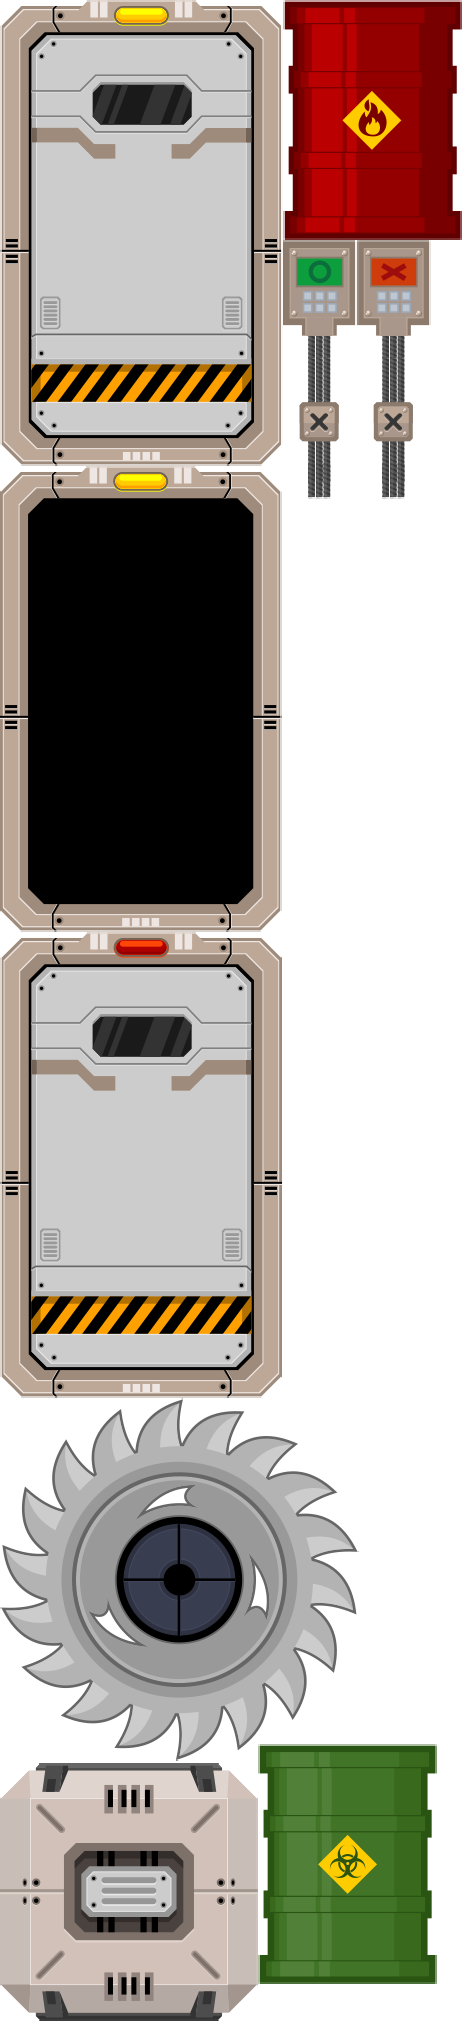
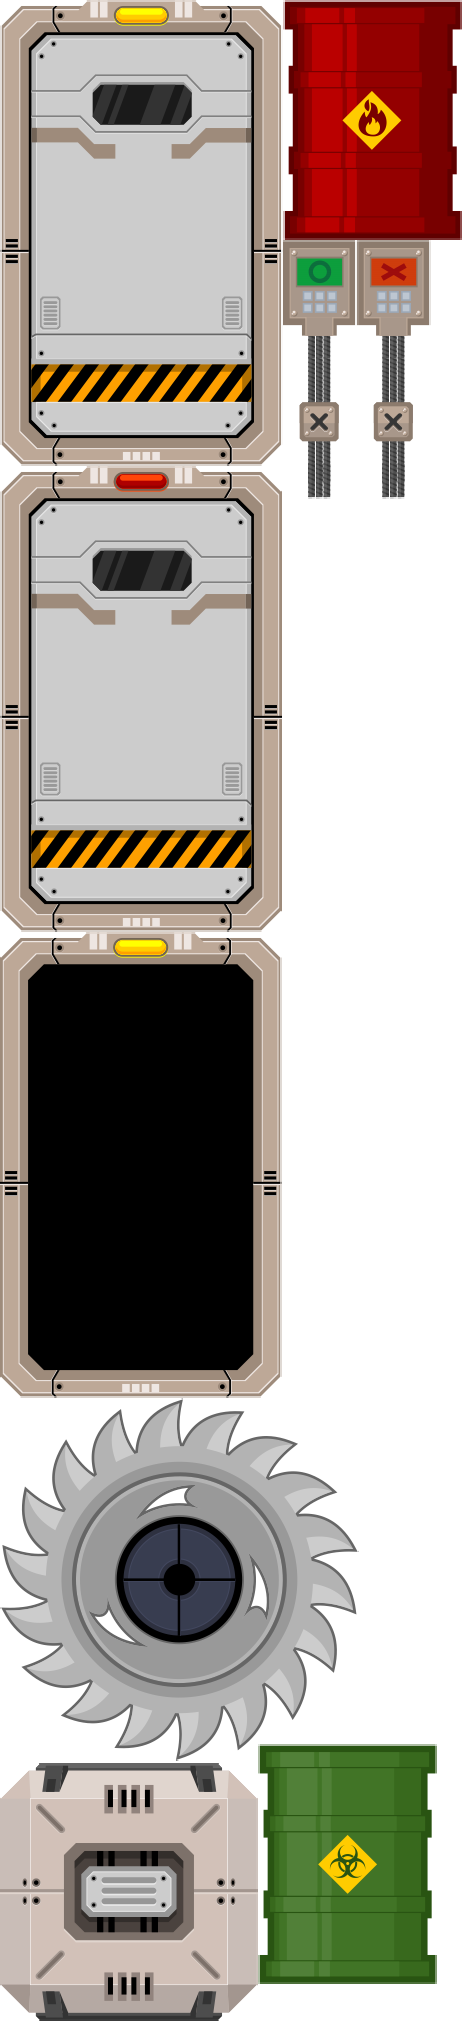
better switches and door, closes #56

Changed region(s): [[0.0, 0.2182, 0.6364, 0.6858]]

diff --git a/Classes/game/on_off_object.cpp b/Classes/game/on_off_object.cpp
@@ -20,53 +20,46 @@
  THE SOFTWARE.
  ****************************************************************************/
 
-#include "door_object.h"
-#include "../utils/audio/audio_helper.h"
+#include "on_off_object.h"
 
-door_object::door_object() :
-  open_(false),
-  audio_helper_(nullptr)
+on_off_object::on_off_object():
+  on_(false),
+  spot_(nullptr)
 {
 }
 
-door_object* door_object::create(physics_shape_cache* physics_shape_cache, audio_helper* audio_helper)
-{
-  door_object* ret = nullptr;
-
-  do
-  {
-    auto object = new door_object();
-    UTILS_BREAK_IF(object == nullptr);
-
-    if (object->init(physics_shape_cache, audio_helper))
-    {
-      object->autorelease();
-    }
-    else
-    {
-      delete object;
-      object = nullptr;
-    }
-
-    ret = object;
-  }
-  while (false);
-
-  return ret;
-}
-
-bool door_object::init(physics_shape_cache* physics_shape_cache, audio_helper* audio_helper)
+bool on_off_object::init(physics_shape_cache* physics_shape_cache, const std::string& shape,
+                         const std::string& sprite_frame_name, const std::string& type, const Vec2& spot_pos,
+                         const string& target /*= ""*/)
 {
   auto ret = false;
 
   do
   {
-    UTILS_BREAK_IF(!base_class::init(physics_shape_cache, "04_Door", "04_DoorLocked.png", "door", Vec2(140, 14)));
+    UTILS_BREAK_IF(!base_class::init(physics_shape_cache, shape, sprite_frame_name, type));
 
-    audio_helper_ = audio_helper;
+    spot_ = createWithSpriteFrameName("10_spot.png");
 
-    audio_helper_->pre_load_effect("sounds/metal_click.mp3");
-    audio_helper_->pre_load_effect("sounds/slide.mp3");
+    UTILS_BREAK_IF(spot_ == nullptr);
+
+    spot_->setPosition(spot_pos.x, getContentSize().height - spot_pos.y);
+
+
+    spot_->setVisible(true);
+    spot_->setColor(Color3B::RED);
+    spot_->setOpacity(255);
+    spot_->setBlendFunc(BlendFunc::ADDITIVE);
+
+    const auto fade_down = FadeTo::create(0.5, 90);
+    const auto fade_up = FadeTo::create(0.5, 255);
+    const auto blink = Sequence::create(fade_down, fade_up, nullptr);
+    const auto repeat = RepeatForever::create(blink);
+
+    spot_->runAction(repeat);
+
+    addChild(spot_);
+
+    target_ = target;
 
     ret = true;
   }
@@ -75,26 +68,19 @@ bool door_object::init(physics_shape_cache* physics_shape_cache, audio_helper* a
   return ret;
 }
 
-bool door_object::on()
+bool on_off_object::on()
 {
-  if (base_class::on())
+  if (is_off())
   {
-    change_spot_color(Color3B::YELLOW);
-    change_frame("06_DoorUnlocked.png");
-    audio_helper_->play_effect("sounds/metal_click.mp3");
+    on_ = true;
+    change_spot_color(Color3B::GREEN);
     return true;
   }
 
   return false;
 }
 
-void door_object::open()
+void on_off_object::change_spot_color(const Color3B& color) const
 {
-  if (is_closed())
-  {
-    change_spot_color(Color3B::GREEN);
-    change_frame("05_DoorOpen.png");
-    audio_helper_->play_effect("sounds/slide.mp3");
-    open_ = true;
-  }
+  spot_->setColor(color);
 }

diff --git a/Classes/scenes/game_scene.cpp b/Classes/scenes/game_scene.cpp
@@ -126,6 +126,8 @@ bool game_scene::init(basic_app* application, const bool debug_grid, const bool 
 
     UTILS_BREAK_IF(!add_objects_to_game());
 
+    activate_default_switches();
+
     UTILS_BREAK_IF(!cache_robot_explosion());
 
     get_physics_shape_cache()->remove_all_shapes();
@@ -526,6 +528,9 @@ bool game_scene::add_object(const vector<Value>::value_type& object)
     const auto layer_walk_back = map->getLayer("walk_back");
     UTILS_BREAK_IF(layer_walk_back == nullptr);
 
+    const auto layer_front = map->getLayer("front");
+    UTILS_BREAK_IF(layer_front == nullptr);
+
     const auto& values = object.asValueMap();
     const auto type = values.at("type").asString();
 
@@ -547,7 +552,7 @@ bool game_scene::add_object(const vector<Value>::value_type& object)
     }
     else if (type == "switch")
     {
-      UTILS_BREAK_IF(!add_switch(values, layer_walk));
+      UTILS_BREAK_IF(!add_switch(values, layer_front));
     }
     else if (type == "door")
     {
@@ -583,6 +588,22 @@ bool game_scene::add_objects_to_game()
   while (false);
 
   return result;
+}
+
+void game_scene::activate_default_switches()
+{
+  for (const auto& it : game_objects_)
+  {
+    if (it.second->get_type() == "switch")
+    {
+      const auto switch_to_check = dynamic_cast<switch_object*>(it.second);
+
+      if (is_switch_targeting_a_switch(switch_to_check))
+      {
+        switch_to_check->on();
+      }
+    }
+  }
 }
 
 unsigned short int game_scene::calculate_stars() const
@@ -891,6 +912,7 @@ void game_scene::switch_activate_switch(switch_object* switch_object)
 {
   if (switch_object->is_off())
   {
+    get_audio_helper()->play_effect("sounds/metal_click.mp3");
     switch_object->on();
 
     const auto target = switch_object->get_target();

diff --git a/Classes/game/on_off_object.h b/Classes/game/on_off_object.h
@@ -19,44 +19,46 @@
  OUT OF OR IN CONNECTION WITH THE SOFTWARE OR THE USE OR OTHER DEALINGS IN
  THE SOFTWARE.
  ****************************************************************************/
-#ifndef __DOOR_CLASS__
-#define __DOOR_CLASS__
+#ifndef __ON_OFF_OBJECT_CLASS__
+#define __ON_OFF_OBJECT_CLASS__
 
-#include "on_off_object.h"
+#include "../utils/physics/physics_game_object.h"
 
-// forward declarations
-class audio_helper;
-
-class door_object final : public on_off_object
+class on_off_object : public physics_game_object
 {
 public:
-  using base_class = on_off_object;
+  using base_class = physics_game_object;
 
-  door_object();
+  on_off_object();
 
-  static door_object* create(physics_shape_cache* physics_shape_cache, audio_helper* audio_helper);
+  bool init(physics_shape_cache* physics_shape_cache, const std::string& shape, const std::string& sprite_frame_name,
+            const std::string& type, const Vec2& spot_pos, const string& target = "");
 
-  bool init(physics_shape_cache* physics_shape_cache, audio_helper* audio_helper);
-
-  bool is_open() const
+  bool is_on() const
   {
-    return open_;
+    return on_;
   }
 
-  bool is_closed() const
+  bool is_off() const
   {
-    return !open_;
+    return !on_;
   }
 
-  bool on() override;
+  virtual bool on();
 
-  void open();
+  string get_target() const
+  {
+    return target_;
+  }
+
+protected:
+  void change_spot_color(const Color3B& color) const;
 
 private:
 
-  bool open_;
-
-  audio_helper* audio_helper_;
+  bool on_;
+  string target_;
+  Sprite* spot_;
 };
 
-#endif // __DOOR_CLASS__
+#endif // __ON_OFF_OBJECT_CLASS__

diff --git a/Classes/game/switch_object.cpp b/Classes/game/switch_object.cpp
@@ -22,11 +22,6 @@
 
 #include "switch_object.h"
 
-switch_object::switch_object():
-  on_(false)
-{
-}
-
 switch_object* switch_object::create(physics_shape_cache* physics_shape_cache, const string& target)
 {
   switch_object* ret = nullptr;
@@ -59,9 +54,8 @@ bool switch_object::init(physics_shape_cache* physics_shape_cache, const string&
 
   do
   {
-    UTILS_BREAK_IF(!base_class::init(physics_shape_cache, "08_Switch", "09_Switch (2).png", "switch"));
-
-    target_ = target;
+    UTILS_BREAK_IF(!base_class::init(physics_shape_cache, "08_Switch", "09_Switch (2).png", "switch",
+      Vec2(37, 30), target));
 
     ret = true;
   }
@@ -70,11 +64,13 @@ bool switch_object::init(physics_shape_cache* physics_shape_cache, const string&
   return ret;
 }
 
-void switch_object::on()
+bool switch_object::on()
 {
-  if (is_off())
+  if (base_class::on())
   {
     change_frame("08_Switch (1).png");
-    on_ = true;
+    return true;
   }
+
+  return false;
 }

diff --git a/Classes/game/switch_object.h b/Classes/game/switch_object.h
@@ -22,40 +22,19 @@
 #ifndef __SWITCH_CLASS__
 #define __SWITCH_CLASS__
 
-#include "../utils/physics/physics_game_object.h"
+#include "on_off_object.h"
 
-class switch_object final : public physics_game_object
+class switch_object final : public on_off_object
 {
 public:
-  using base_class = physics_game_object;
-
-  switch_object();
+  using base_class = on_off_object;
 
   static switch_object* create(physics_shape_cache* physics_shape_cache, const string& target);
 
   bool init(physics_shape_cache* physics_shape_cache, const string& target);
 
-  bool is_on() const
-  {
-    return on_;
-  }
-
-  bool is_off() const
-  {
-    return !on_;
-  }
-
-  void on();
-
-  string get_target() const
-  {
-    return target_;
-  }
-
-private:
-
-  bool on_;
-  string target_;
+  bool on() override;
 };
+
 
 #endif // __SWITCH_CLASS__

diff --git a/Classes/scenes/game_scene.h b/Classes/scenes/game_scene.h
@@ -158,6 +158,7 @@ private:
 
   bool add_object(const vector<Value>::value_type& object);
   bool add_objects_to_game();
+  void activate_default_switches();
 
   static constexpr float gravity = -5000.0f;
 
